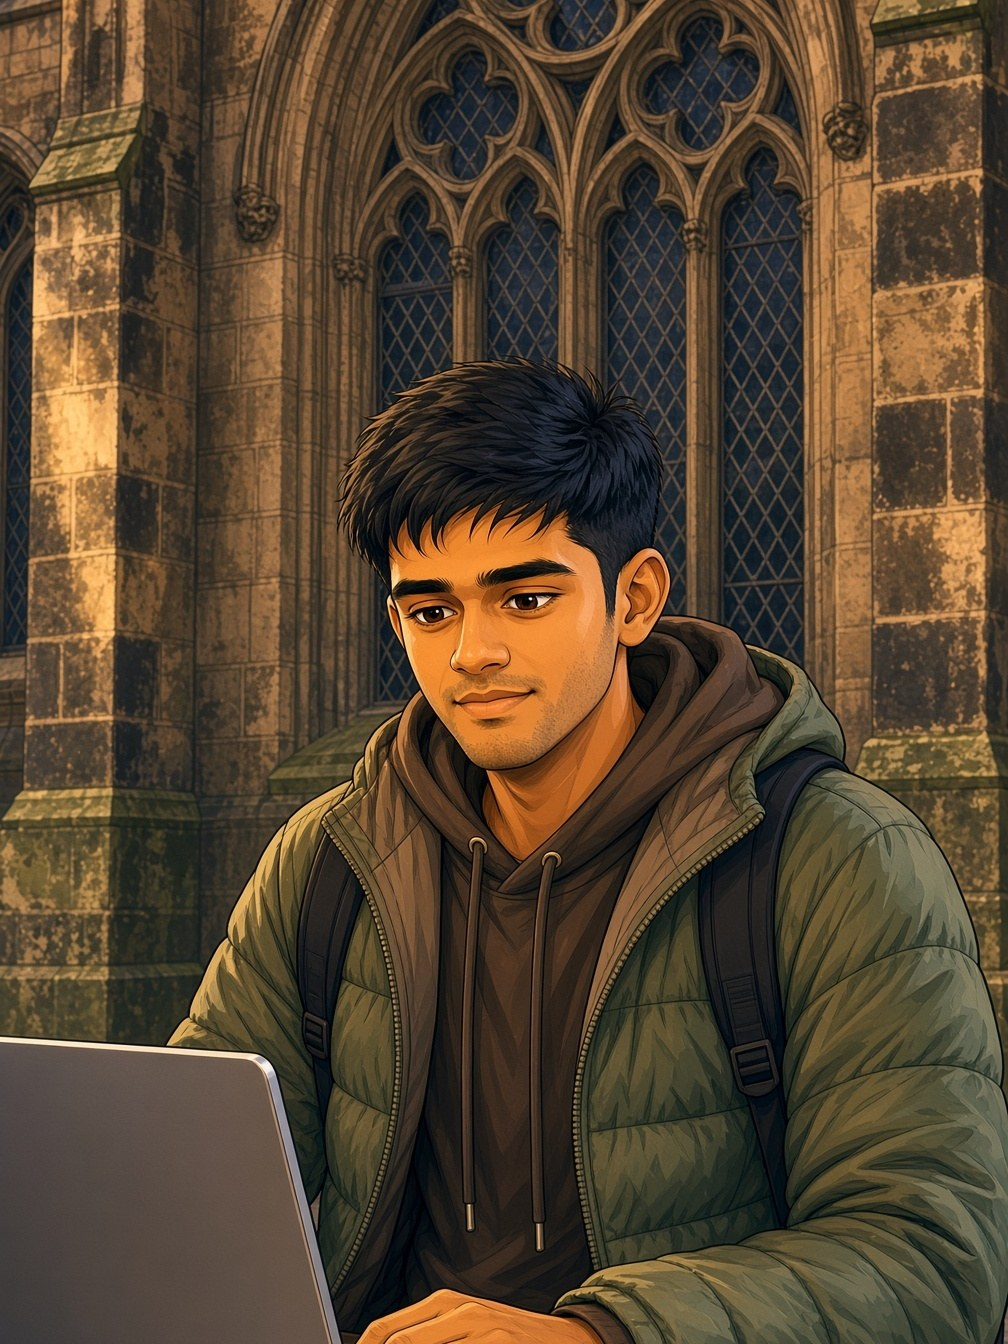
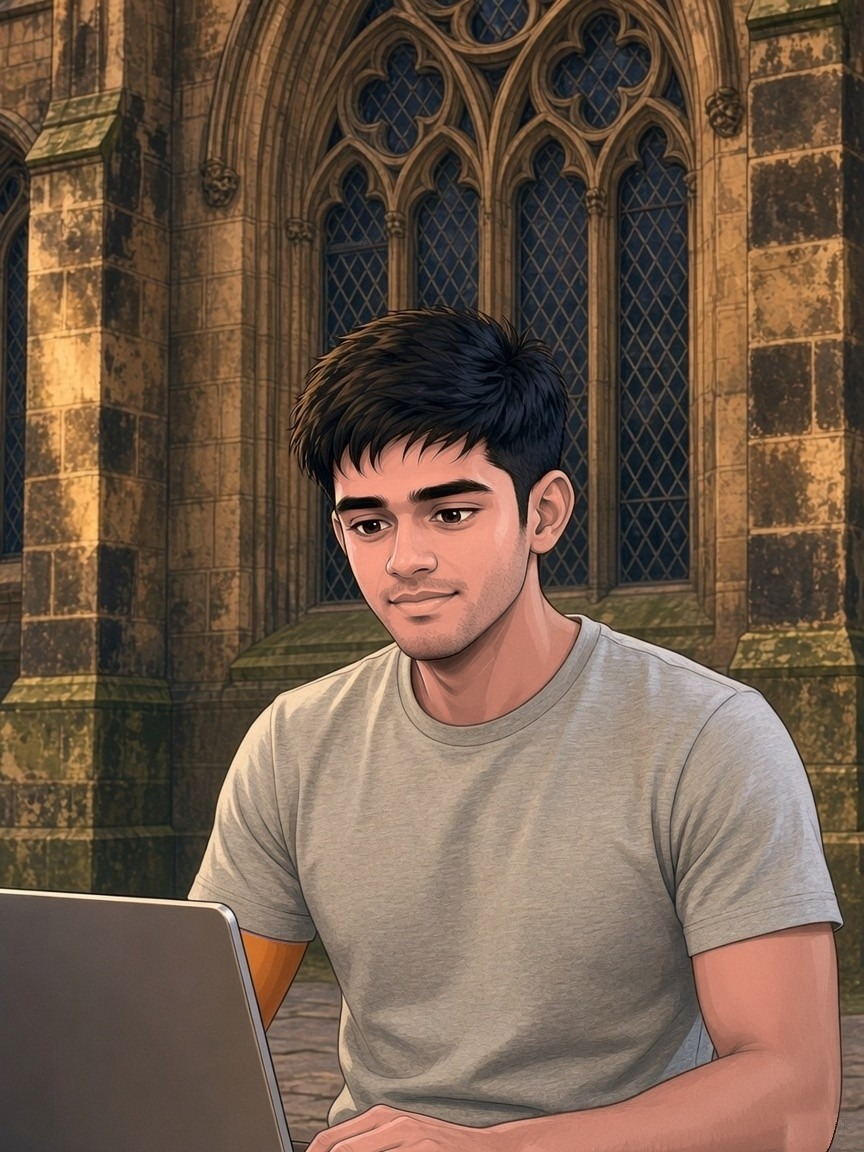
Update the hero portrait
Replace the portrait image and correct its dimensions and alt text.

diff --git a/src/components/hero.tsx b/src/components/hero.tsx
@@ -77,10 +77,10 @@ export function Hero() {
         <div className="overflow-hidden rounded-xl bg-card p-2">
           <img
             src="/images/ajay.jpg"
-            alt="Cartoon illustration of Ajay Kumar M"
+            alt="Illustration of Ajay Kumar M"
             className="media aspect-3/4 w-full rounded-lg object-cover object-top"
-            width={1008}
-            height={1344}
+            width={864}
+            height={1152}
           />
         </div>
         <figcaption className="mt-3 flex items-center justify-between font-mono text-xs text-muted-foreground">
